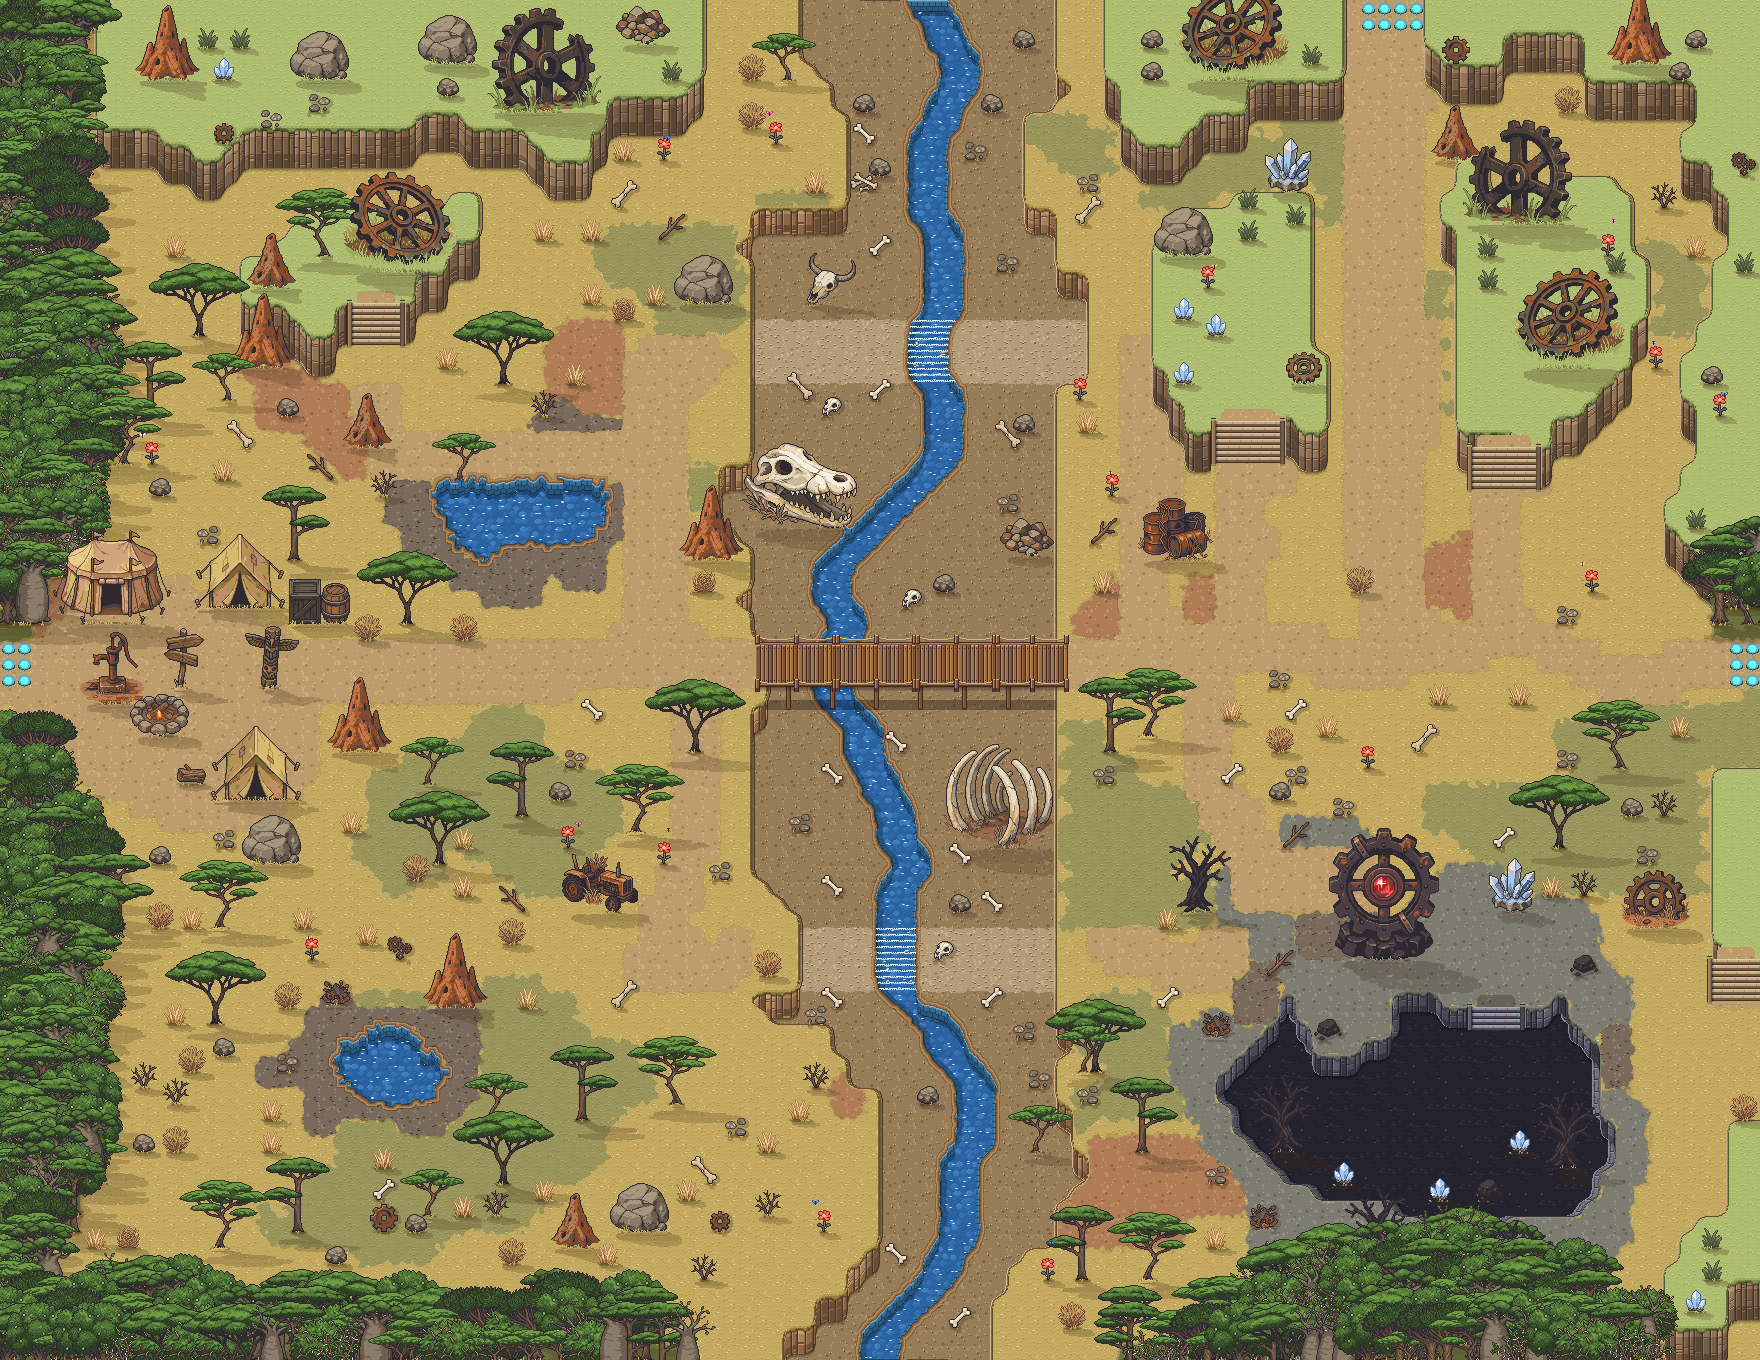
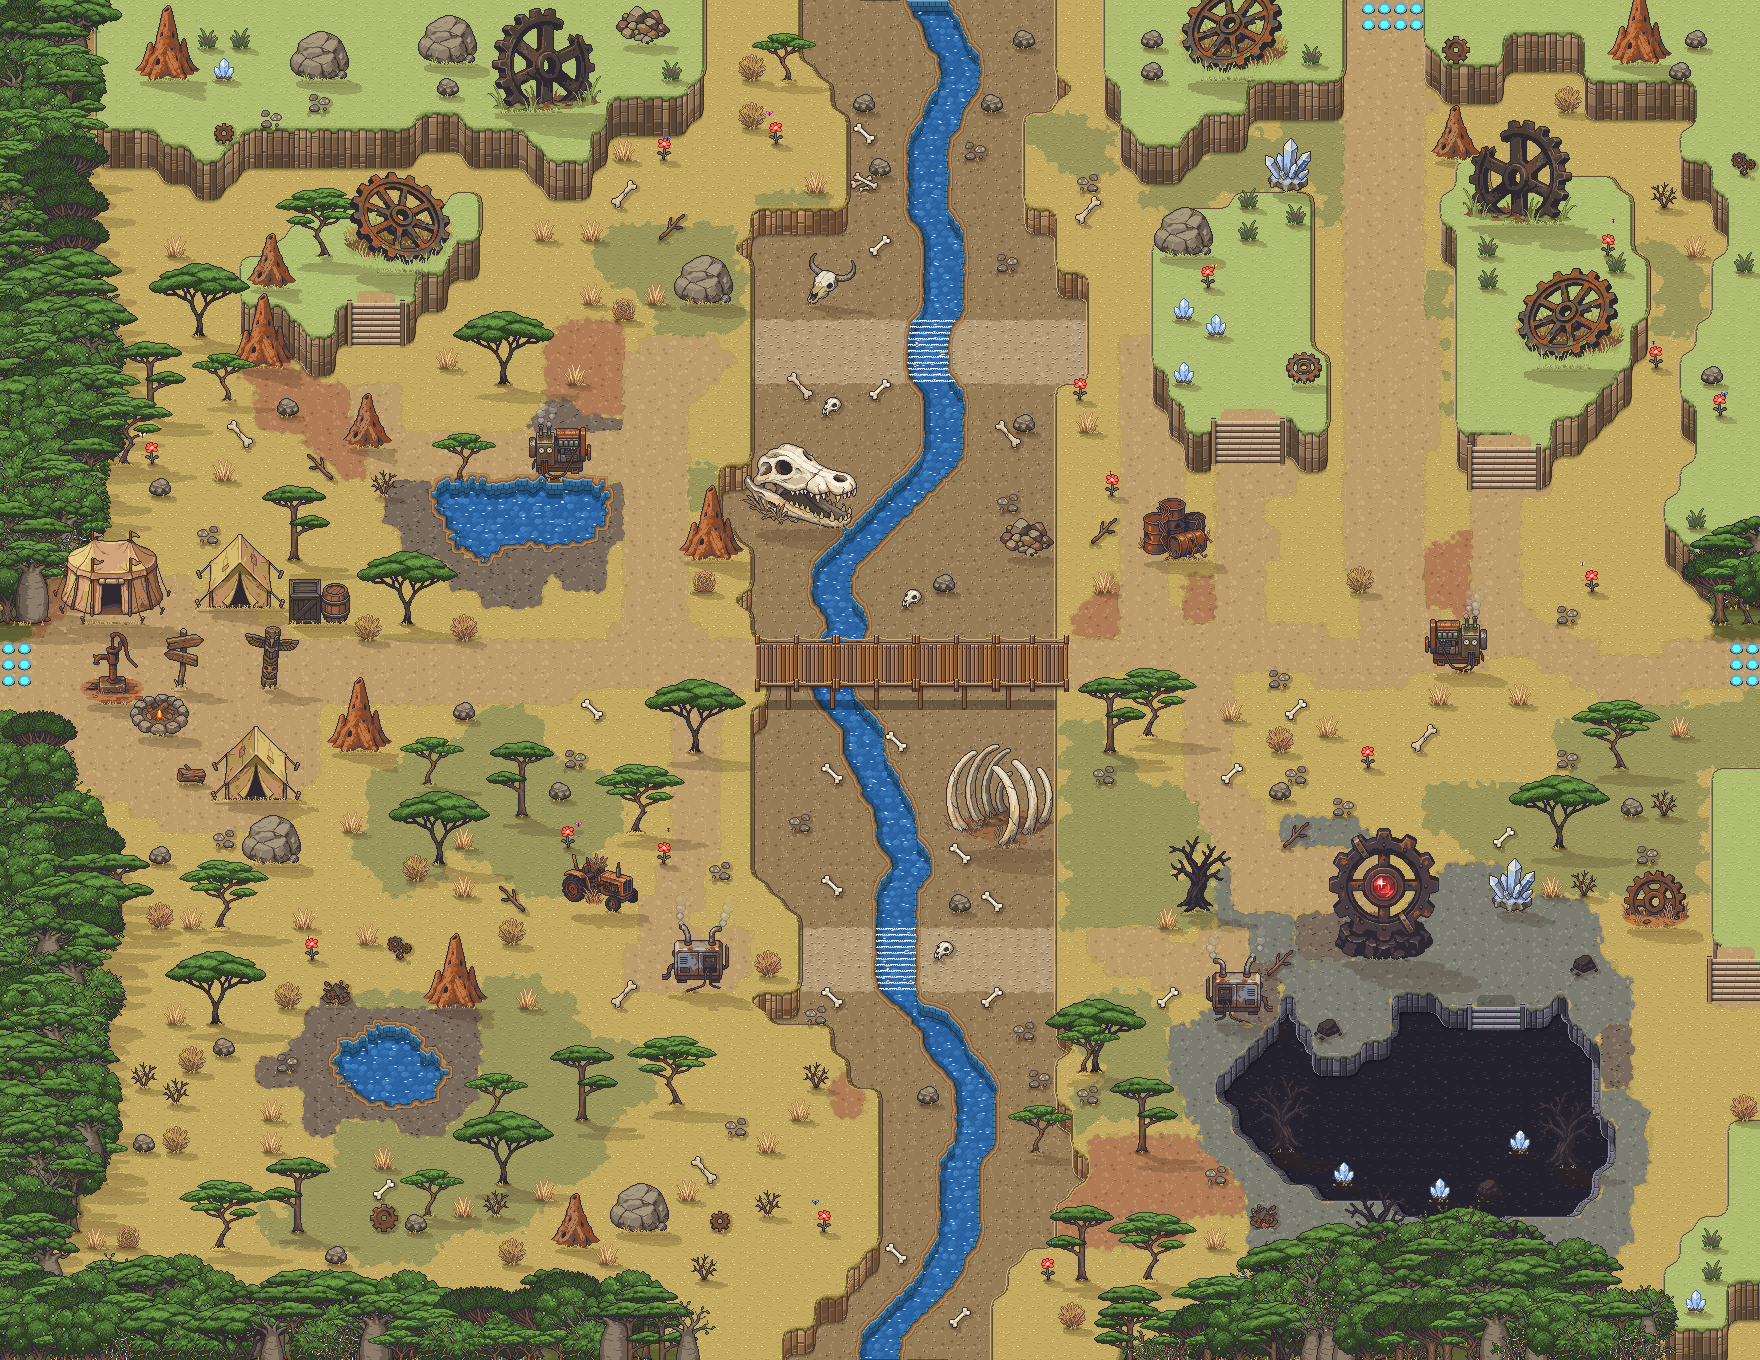
Karte 04: 4 animierte Reaktoren (Rauch aus den Rohren, pulsierende Lampen)
Claude-Session: https://claude.ai/code/session_01SaoYHKhnro4LFcPJqjaPsq

diff --git a/tools/karte04_bauen.py b/tools/karte04_bauen.py
@@ -647,6 +647,9 @@ FLAMME = [  # 7x9, f1 dunkelrot .. f4 hellgelb
 FEUERFARBE = {'1': (160, 40, 30), '2': (230, 90, 30), '3': (250, 170, 50), '4': (255, 236, 150)}
 
 
+ROHRE = {'baeume/04': [(19, 1, -1), (58, 5, 1)], 'rand/08': [(41, 1, 0), (50, 1, 0)]}   # Rohr x, y, Austrittsrichtung
+
+
 def animieren(img, objs, cache, frame):
     """Lagerfeuer (Flammen + Lichtschein), Monument-Juwel pulsiert, Kristalle glitzern, Laterne glimmt."""
     glut = Image.new('RGBA', img.size, (0, 0, 0, 0))
@@ -707,6 +710,44 @@ def animieren(img, objs, cache, frame):
                         px[x_ + dx, y_ + dy] = (255, 255, 255, 255)
                 cx, cy = o['x'] + xs.mean(), o['y'] + ys.mean()
                 gd.ellipse((cx - 9, cy - 7, cx + 9, cy + 7), fill=(160, 210, 255, int(22 + 22 * puls)))
+        elif anim == 'reaktor':
+            # Generator/Reaktor: Kontrolllampen und Anzeigen pulsieren (nur helle, gesaettigte Pixel), aus den
+            # Auspuffrohren steigen Rauchwoelkchen auf (nur ueber dem Objekt, nicht auf dem Gehaeuse)
+            a = np.array(sp).astype(np.int16)
+            r_, g_, b_ = a[..., 0], a[..., 1], a[..., 2]
+            mx, mn = np.maximum(np.maximum(r_, g_), b_), np.minimum(np.minimum(r_, g_), b_)
+            licht = (a[..., 3] > 0) & (mx > 150) & (mx - mn > 70) & ((g_ > r_ + 20) | (b_ > r_ + 20) | (r_ > g_ + 90))
+            ys_l, xs_l = np.nonzero(licht)
+            for y_, x_ in zip(ys_l, xs_l):
+                f = 0.55 + 0.9 * (0.5 + 0.5 * math.sin(2 * math.pi * frame / N_FRAMES * 2 + (x_ // 4) * 1.3 + i))
+                X, Y = o['x'] + x_, o['y'] + y_
+                rr, gg, bb, _ = px[X, Y]
+                px[X, Y] = (min(255, int(rr * f)), min(255, int(gg * f)), min(255, int(bb * f)), 255)
+            if len(xs_l):
+                # schwacher Lichtschein um die Lampengruppe
+                st = 0.5 + 0.5 * math.sin(2 * math.pi * frame / N_FRAMES * 2 + i)
+                fa = tuple(int(c) for c in a[ys_l, xs_l, :3].mean(axis=0))
+                cx_l, cy_l = o['x'] + xs_l.mean(), o['y'] + ys_l.mean()
+                rx, ry = (xs_l.max() - xs_l.min()) / 2 + 4, (ys_l.max() - ys_l.min()) / 2 + 3
+                gd.ellipse((cx_l - rx, cy_l - ry, cx_l + rx, cy_l + ry), fill=fa + (int(55 * st),))
+            # Rauch genau aus den Rohroeffnungen (Pixel im Original-Sprite, Variante hat 2 px Rand links)
+            basis = Image.open(os.path.join(OBJ, o['basis'] + '.png'))
+            off = 2 if sp.size == (basis.width + 4, basis.height + 3) else 0
+            for j, (rx_, ry_, seit) in enumerate(ROHRE.get(o['basis'], ())):
+                if o.get('spiegeln') or o['datei'].endswith('_m.png'):
+                    rx_, seit = basis.width - 1 - rx_, -seit
+                cx, cy0 = o['x'] + off + rx_, o['y'] + ry_
+                for z in range(4):
+                    t = ((frame + z * N_FRAMES / 4 + j * 2) % N_FRAMES) / N_FRAMES
+                    cy = cy0 - 1 - t * 30
+                    r = 1.5 + t * 4.5
+                    dx = seit * min(t * 4, 1) * 4 + math.sin(t * 6 + j * 2) * 1.5 + t * 7      # Austritt + Wind
+                    k_ = 1 - t
+                    x0, y0 = round(cx + dx), round(cy)
+                    gd.ellipse((x0 - r - 1, y0 - r - 1, x0 + r + 1, y0 + r + 1), fill=(95, 90, 88, int(170 * k_)))
+                    gd.ellipse((x0 - r, y0 - r, x0 + r, y0 + r), fill=(175, 170, 165, int(210 * k_)))
+                    if r > 2.5:
+                        gd.ellipse((x0 - r + 1, y0 - r + 1, x0, y0), fill=(220, 216, 210, int(200 * k_)))
         elif anim == 'leuchten':
             cx, cy = o['x'] + sp.width // 2, o['y'] + sp.height // 2
             for r, al in ((14, 30), (7, 50)):

diff --git a/tools/karte04_objekte.py b/tools/karte04_objekte.py
@@ -70,6 +70,9 @@ FEST = [
     # Schrott am Wegesrand (Zahnrad-Thema)
     ('baeume/09', 600, 900, {}), ('baeume/06', 1180, 560, {}), ('mittel/14', 1660, 600, {}), ('baeume/05', 1650, 920, {}),
     ('mittel/00', 272, 862, {}), ('mittel/00', 648, 1222, {}),
+    # Reaktoren/Generatoren (animiert: Lampen pulsieren, Rauch aus den Rohren)
+    ('baeume/04', 690, 980, {'anim': 'reaktor'}), ('rand/08', 1460, 660, {'anim': 'reaktor'}),
+    ('rand/08', 560, 470, {'anim': 'reaktor', 'spiegeln': True}), ('baeume/04', 1240, 1010, {'anim': 'reaktor', 'spiegeln': True}),
 ]
 STREU = {
     's': {'klein/00': 8, 'klein/27': 4, 'klein/02': 3, 'klein/08': 2, 'klein/07': 2, 'klein/03': 1,
